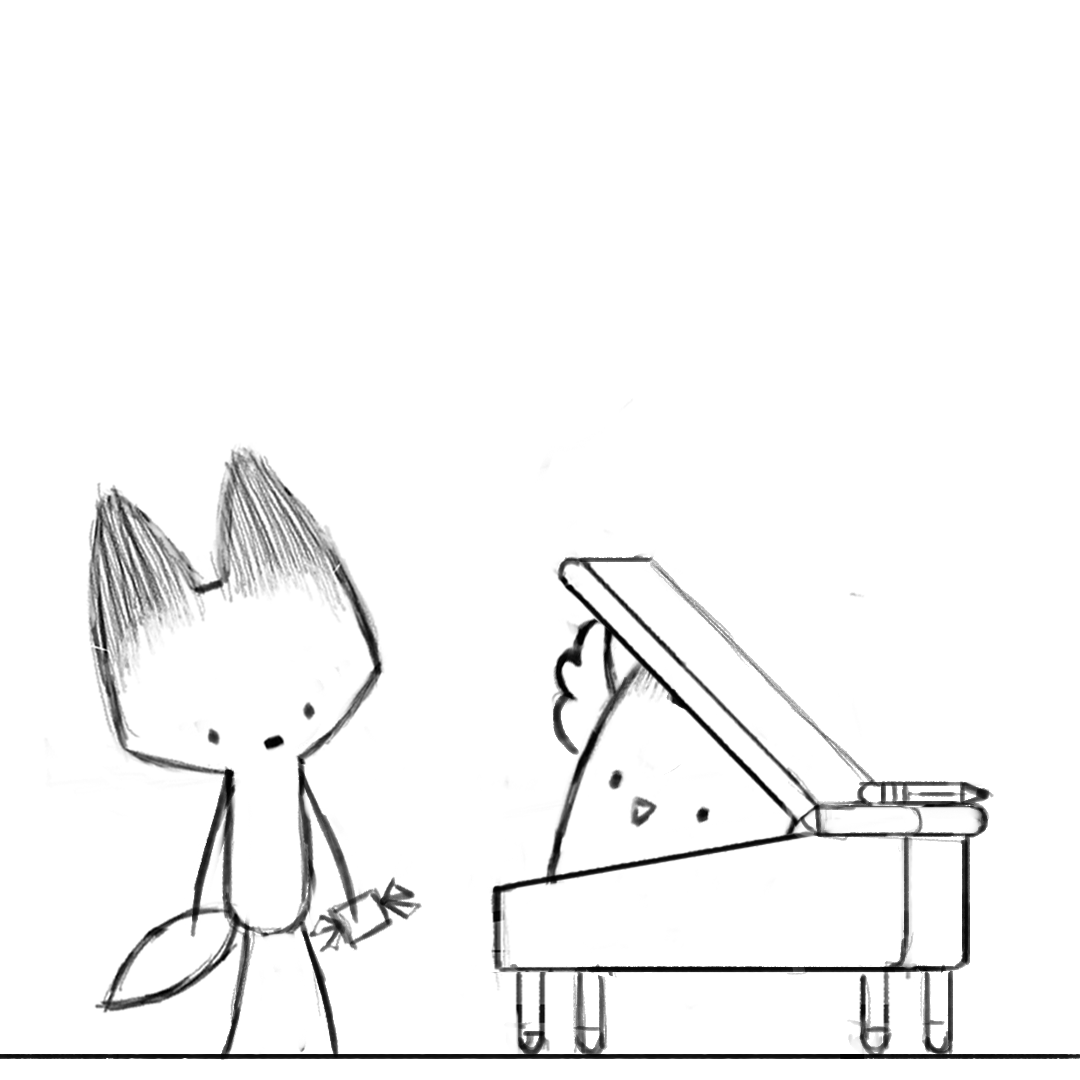
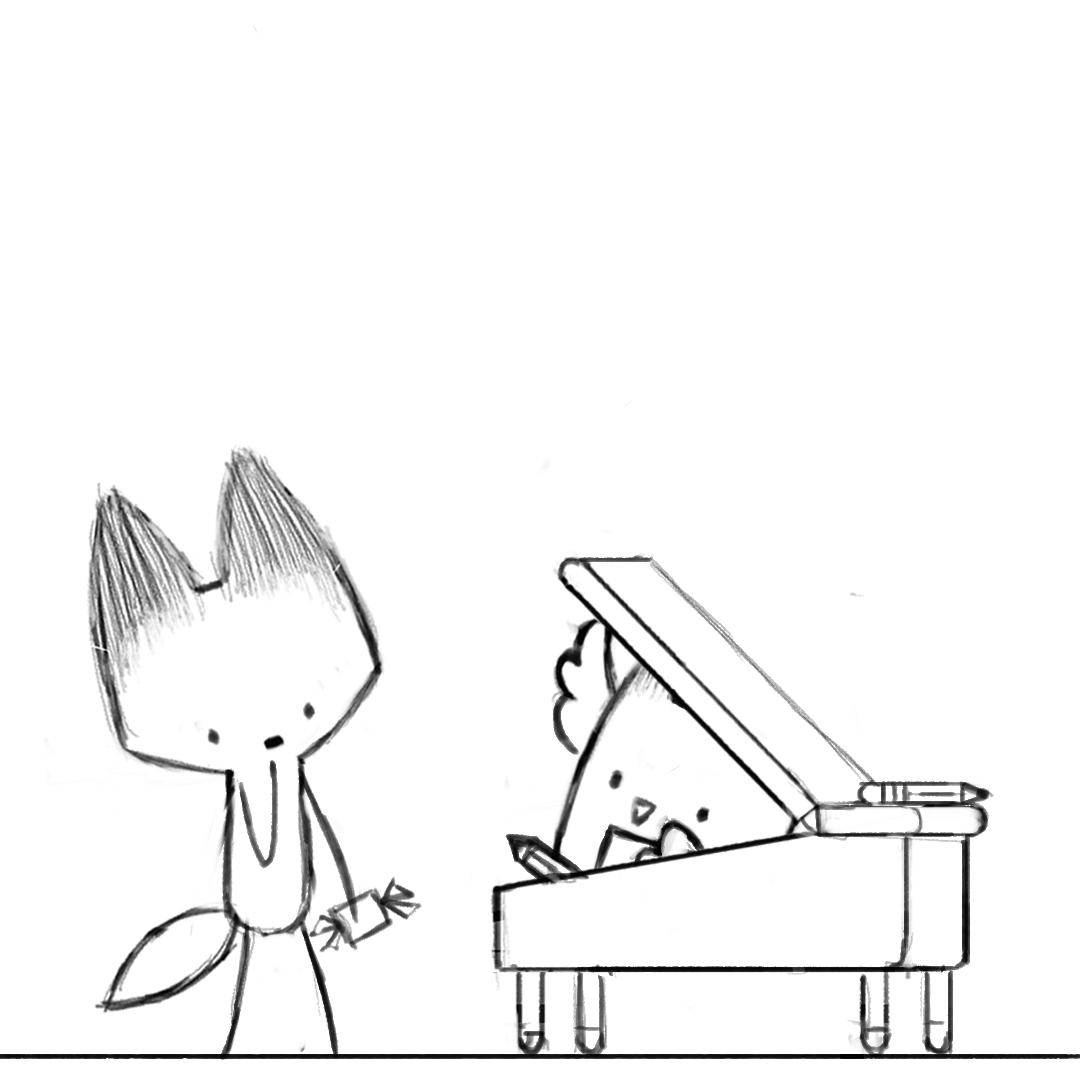
New images

diff --git a/main.rb b/main.rb
@@ -31,27 +31,26 @@ book.add_page(IllustrationPage.new("fox.2","Fox dismantles the desk."))
 book.add_page(ChapterPage.new("The Answers"))
 book.add_page(IllustrationPage.new("cat.3","Cat destroys the pencil and the paper."))
 book.add_page(IllustrationPage.new("owl.3","Owl finds notes in the desk"))
-book.add_page(IllustrationPage.new("bat.3","Bat finds many pens in the desk."))
+book.add_page(IllustrationPage.new("bat.3","Bat cannot fit any more pens in the desk."))
 book.add_page(IllustrationPage.new("fox.3","Fox rebuilts the desk inside-out."))
 
 book.add_page(ChapterPage.new("The Rules"))
 book.add_page(IllustrationPage.new("cat.4","Cat enters the desk."))
 book.add_page(IllustrationPage.new("owl.4","Owl tries to make sense of the room."))
-book.add_page(IllustrationPage.new("bat.4","???"))
+book.add_page(IllustrationPage.new("bat.4","Bat has seen enough."))
 book.add_page(IllustrationPage.new("fox.4","Fox has a visitor."))
 
 book.add_page(ChapterPage.new("The Rules"))
 book.add_page(IllustrationPage.new("cat.5","Cat comes out cat desk"))
-book.add_page(IllustrationPage.new("owl.5"))
-book.add_page(IllustrationPage.new("bat.5","Bat suicide."))
+book.add_page(IllustrationPage.new("owl.5","Owl has made sense of the world!"))
+book.add_page(IllustrationPage.new("bat.5","Bat awakens."))
 book.add_page(IllustrationPage.new("fox.5", "Fox has another visitor"))
 
 book.add_page(ChapterPage.new("The Rules"))
 book.add_page(IllustrationPage.new("cat.6","Cat destroys desk."))
-book.add_page(IllustrationPage.new("owl.6"))
-book.add_page(IllustrationPage.new("bat.6","Bat awakens."))
+book.add_page(IllustrationPage.new("owl.6","Owl finds a scribble in the desk."))
+book.add_page(IllustrationPage.new("bat.6","Bat finds a pen."))
 book.add_page(IllustrationPage.new("fox.6", "Fox has too many visitors."))
-
 
 book.add_page(BlankPage.new)
 book.add_page(BlankPage.new)
